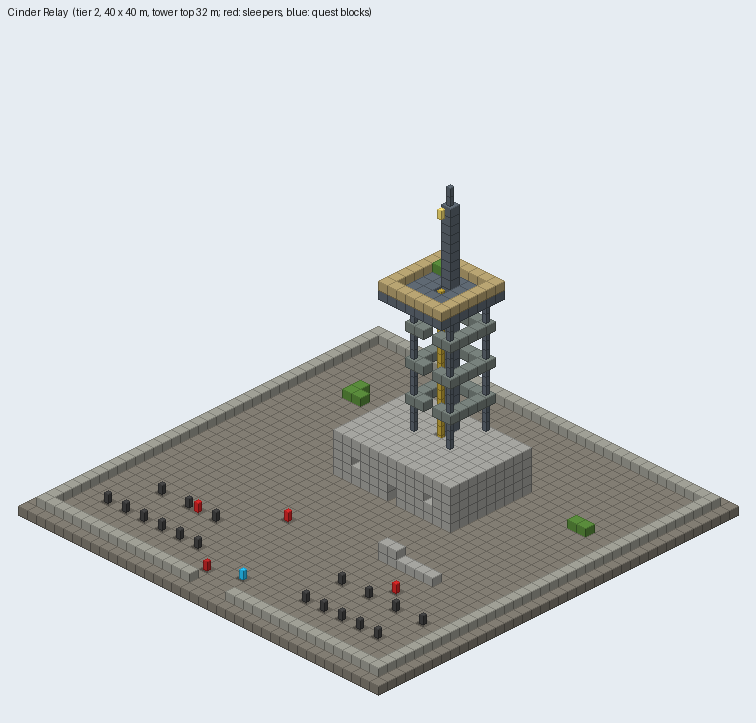
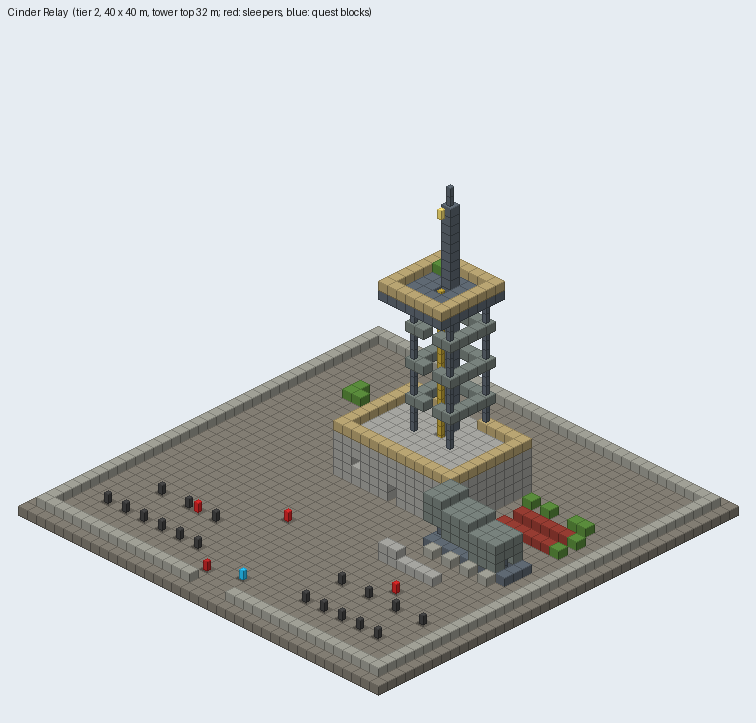
tools/prefabs: set pieces from each strip's weapon quest in the army posts
Pine: triage tent and a pen of irradiated drums. Burnt: missile launcher, racks and a
sandbagged launch pad on the bunker roof. Desert: antenna farm, a ground signal X and a radio
room. Snow: gas depot, generators and a scorched test target. Wasteland: gyrocopter helipad,
fuel and a lab. Adds a contact sheet of all five previews.

Changed region(s): [[0.4259, 0.5173, 0.791, 0.8216]]

diff --git a/tools/prefabs/kaiju_posts.py b/tools/prefabs/kaiju_posts.py
@@ -265,6 +265,7 @@ def pine():
     yard_sleepers(p, "GroupGenericZombie", 3, [(12, 8, "sleeperIdle", 0), (27, 10, "sleeperIdle", 2), (8, 12, "sleeperStomach", 1)])
     p.sleepers((x0 + 1, top + 1, z0 + 1), (7, 3, 7), "GroupZomSoldier", 1, True,
                [(x0 + 3, top + 1, z1 - 3, "sleeperSit", 2)])
+    theme_pine(p)
     return p
 
 
@@ -313,6 +314,7 @@ def burnt():
                                                (16, 13, "sleeperStomach", 2)])
     p.sleepers((bx0 + 1, 1, bz0 + 1), (11, 3, 7), "GroupZomSoldier", 2, True,
                [(bx0 + 4, 1, bz0 + 3, "sleeperSit", 2), (bx1 - 3, 1, bz0 + 4, "sleeperIdle", 0)])
+    theme_burnt(p)
     return p
 
 
@@ -363,6 +365,7 @@ def desert():
                [(tx0 + 2, 1, tz0 + 2, "sleeperSit", 2), (tx0 + 2, 6, tz0 + 2, "sleeperIdle", 0)])
     p.sleepers((tx0, top + 1, tz0), (7, 3, 7), "GroupZomSoldier", 1, True,
                [(CX, top + 1, tz0 + 1, "sleeperStomach", 0)])
+    theme_desert(p)
     return p
 
 
@@ -404,21 +407,20 @@ def snow():
                (cx - 4, top + 1, cz - 2, "cntGunSafeRandomLootHelperArmyGreen"),
                (cx + 4, top + 1, cz - 2, "cntMunitionsBoxArmy"),
                (cx + 4, top + 1, cz, "radioHam")])
-    # Yard: a corrugated hut (supply store) and fuel drums.
+    # Yard: a corrugated hut (supply store).
     hx0, hz0, hx1, hz1 = 4, 26, 12, 34
     p.walls(hx0, hz0, hx1, hz1, 1, 3, "corrugatedMetalShapes:cube")
     p.fill(hx0, 4, hz0, hx1, 4, hz1, "corrugatedMetalShapes:cube")
     p.clear(8, 1, hz0, 8, 2, hz0)
     crates(p, [(hx0 + 1, 1, hz1 - 1, "cntMilitaryMetalShelvesRandomLootHelper"),
                (hx1 - 1, 1, hz1 - 1, "cntFootlockerArmyGreenRandomLootHelper")])
-    for x, z in ((31, 33), (32, 33), (33, 33), (31, 34)):
-        p.set(x, 1, z, "cntBarrelGasSingle00")
     yard_sleepers(p, "GroupZomSoldier", 4, [(10, 9, "sleeperIdle", 0), (30, 9, "sleeperIdle", 0),
                                             (20, 12, "sleeperStomach", 2)])
     p.sleepers((hx0 + 1, 1, hz0 + 1), (7, 3, 7), "GroupZomSoldier", 2, True,
                [(hx0 + 3, 1, hz0 + 3, "sleeperSit", 2), (hx0 + 5, 1, hz0 + 4, "sleeperBack", 1)])
     p.sleepers((cx - 5, top + 1, cz - 5), (11, 3, 5), "GroupZomSoldier", 1, True,
                [(cx + 2, top + 1, cz - 3, "sleeperIdle", 0)])
+    theme_snow(p)
     return p
 
 
@@ -477,7 +479,7 @@ def wasteland():
     for x in range(4, 37, 2):
         if x not in GATE:
             p.set(x, 1, 13, "barbedWireSpindle")
-    for x, z in ((8, 17), (12, 19), (28, 17), (32, 19), (6, 31), (34, 31)):
+    for x, z in ((8, 17), (12, 19), (24, 30), (6, 31), (34, 33)):
         p.fill(x, 1, z, x, 2, z, "concreteShapes:cube")
     for x in list(range(10, 16)) + list(range(25, 31)):
         p.set(x, 1, 10, "ironSpikesTrapBloodPOI")
@@ -490,7 +492,109 @@ def wasteland():
                [(cx - 2, 6, cz, "sleeperIdle", 0), (cx + 2, 6, cz - 1, "sleeperStomach", 1)])
     p.sleepers((cx - 4, top + 1, cz - 4), (9, 3, 9), "GroupZomSoldier", 2, True,
                [(cx, top + 1, cz - 2, "sleeperIdle", 0), (cx + 2, top + 1, cz + 2, "sleeperSit", 2)])
+    theme_wasteland(p)
     return p
+
+
+# ---- set pieces from each strip's weapon quest
+
+def tent(p, x0, z0, x1, z1, wall, roof, open_side="-z"):
+    """A walled shelter two high with a roof, open on one long side."""
+    p.walls(x0, z0, x1, z1, 1, 2, wall)
+    p.fill(x0, 3, z0, x1, 3, z1, roof)
+    if open_side == "-z":
+        p.clear(x0 + 1, 1, z0, x1 - 1, 2, z0)
+    else:
+        p.clear(x0, 1, z0 + 1, x0, 2, z1 - 1)
+
+
+def pen(p, x0, z0, x1, z1, inside):
+    """A barbed wire pen with things inside it."""
+    p.ring(x0, z0, x1, z1, 1, "barbedWireSpindle1m")
+    for x, z, b in inside:
+        p.set(x, 1, z, b)
+
+
+def theme_pine(p):
+    """Disaster bureau field post: a triage tent, and a wired-off pen of irradiated drums (G-cell samples)."""
+    tent(p, 27, 17, 35, 22, "corrugatedMetalShapes:cube", "corrugatedMetalShapes:cube", "-x")
+    crates(p, [(34, 1, 18, "cntMedicLootPileA"), (34, 1, 21, "cntMedicLootPileB"),
+               (32, 1, 21, "cntPillCaseRandomLootHelper"), (30, 1, 21, "cntMedicineCabinetClosedRandomLootHelper")])
+    pen(p, 27, 26, 33, 31, [(29, 28, "cntBarrelRadiatedSingle00"), (31, 29, "cntBarrelRadiatedSingle00"),
+                            (30, 27, "cntBarrelRadiatedSingle45")])
+    p.set(13, 1, 18, "cntCollapsedCampfire")
+    # Searchlights on the south deck, watching the sea.
+    for x in (CX - 3, CX + 3):
+        p.set(x, 19, 20, "spotlightUpStraight_POI")
+
+
+def theme_burnt(p):
+    """Missile battery site: a launcher trailer aimed west at the sea, missile racks, munitions;
+    the bunker roof is a sandbagged pad for the launch control."""
+    # Trailer chassis and a launcher box stepped up toward the west.
+    p.fill(27, 1, 18, 35, 1, 20, "steelShapes:cube")
+    for i, x in enumerate(range(27, 35)):
+        y = 2 + (34 - x) // 3
+        p.fill(x, y, 18, x, y + 2, 20, "corrugatedMetalShapes:cube")
+        p.fill(x, 2, 19, x, y - 1, 19, "steelShapes:pillar50")
+    for x in range(28, 36, 2):
+        p.set(x, 1, 17, "barrierConcrete")
+    # Missile racks and munitions.
+    for z in (24, 26):
+        p.fill(29, 1, z, 34, 1, z, "metalPipeStackLoose")
+    crates(p, [(35, 1, 24, "cntMunitionsBoxArmy"), (35, 1, 26, "cntAmmoPileLarge"),
+               (28, 1, 28, "cntWeaponsBagLarge"), (30, 1, 28, "cntMunitionsBoxArmy")])
+    # Launch control pad on the bunker roof.
+    p.ring(CX - 6, 21, CX + 6, 29, 6, "sandbagStraight01", gaps={(CX - 1, 29), (CX, 29), (CX + 1, 29)})
+
+
+def theme_desert(p):
+    """Airstrike radio relay: an antenna farm, a big X signal panel on the sand for the jets,
+    a radio room in the tower, fuel drums."""
+    for x, z in ((4, 34), (10, 36), (35, 35)):
+        p.fill(x, 1, z, x, 12, z, "steelShapes:pole")
+        p.set(x, 13, z, "lightIndustrialRed")
+    for i in range(9):
+        for x, z in ((25 + i, 15 + i), (33 - i, 15 + i)):
+            p.set(x, 0, z, "terrConcrete")
+            p.set(x + 1, 0, z, "terrConcrete")
+    crates(p, [(CX + 2, 1, 26, "radioHam"), (CX + 1, 1, 26, "cntDeskMetalArmyGreenRandomLootHelper"),
+               (CX + 2, 21, 21, "radioHam")])
+    for x, z in ((14, 33), (16, 33), (14, 35)):
+        p.set(x, 1, z, "cntBarrelGasQuadA")
+
+
+def theme_snow(p):
+    """Maser test site: a gas depot behind sandbags, generators by the hut, and a scorched test target
+    out front; the deck's open south half is the cannon pad."""
+    p.ring(28, 29, 35, 35, 1, "sandbagStraight01", gaps={(31, 29)})
+    for x, z in ((29, 31), (31, 31), (33, 31), (29, 33), (31, 33), (33, 33)):
+        p.set(x, 1, z, "cntBarrelGasQuadA")
+    crates(p, [(13, 1, 27, "cntCollapsedGeneratorbank"), (13, 1, 30, "cntCollapsedGeneratorbank")])
+    # Test target: a scorched, broken concrete wall.
+    for x, h, b in ((30, 3, "concreteShapes:cubeTrimDestroyed03"), (31, 4, "concreteShapes:cubeTrimDestroyed01"),
+                    (32, 2, "concreteShapes:cubeTrimDestroyed04"), (33, 3, "concreteShapes:cubeTrimDestroyed02")):
+        p.fill(x, 1, 16, x, h - 1, 16, "concreteShapes:cube")
+        p.set(x, h, 16, b)
+
+
+def theme_wasteland(p):
+    """Oxygen Destroyer staging post: a gyrocopter helipad with an H and lights, fuel, a lab on the
+    blockhouse's upper floor and a pen of irradiated drums."""
+    x0, z0 = 26, 15
+    p.fill(x0, 0, z0, x0 + 10, 0, z0 + 10, "terrAsphalt")
+    for z in range(z0 + 2, z0 + 9):
+        p.set(x0 + 3, 0, z, "terrConcrete")
+        p.set(x0 + 7, 0, z, "terrConcrete")
+    for x in range(x0 + 3, x0 + 8):
+        p.set(x, 0, z0 + 5, "terrConcrete")
+    for x, z in ((x0, z0), (x0 + 10, z0), (x0, z0 + 10), (x0 + 10, z0 + 10)):
+        p.set(x, 1, z, "spotlightUpStraight_POI")
+    for x, z in ((35, 28), (35, 30), (33, 30)):
+        p.set(x, 1, z, "cntBarrelGasQuadA")
+    crates(p, [(CX - 4, 6, 22, "cntShippingCrateLabEquipment"), (CX - 4, 6, 24, "cntChemPileLarge"),
+               (CX + 4, 6, 22, "cntChemPileMedium"), (CX - 1, 6, 28, "lightDisplayXRayFull")])
+    pen(p, 4, 18, 9, 23, [(6, 20, "cntBarrelRadiatedSingle00"), (7, 21, "cntBarrelRadiatedSingle45")])
 
 
 POSTS = (pine, burnt, desert, snow, wasteland)
@@ -529,6 +633,7 @@ COLOURS = [
     ("barbed", (70, 70, 70)), ("ironSpikes", (120, 60, 50)), ("sandbag", (185, 165, 115)),
     ("barrier", (160, 160, 150)), ("brick", (190, 130, 90)), ("wood", (140, 100, 60)),
     ("steel", (95, 105, 115)), ("corrugated", (120, 130, 125)), ("concrete", (165, 165, 160)),
+    ("terrConcrete", (235, 235, 225)), ("terrAsphalt", (55, 55, 60)), ("metalPipe", (150, 60, 50)),
     ("terrSand", (220, 200, 150)), ("terrGravel", (130, 125, 115)), ("terr", (110, 95, 70)),
 ]
 THIN = ("ladder", "railing", "barbed", "pole", "pillar", "sleeper", "questRally", "flag", "light", "spotlight", "ironSpikes")
